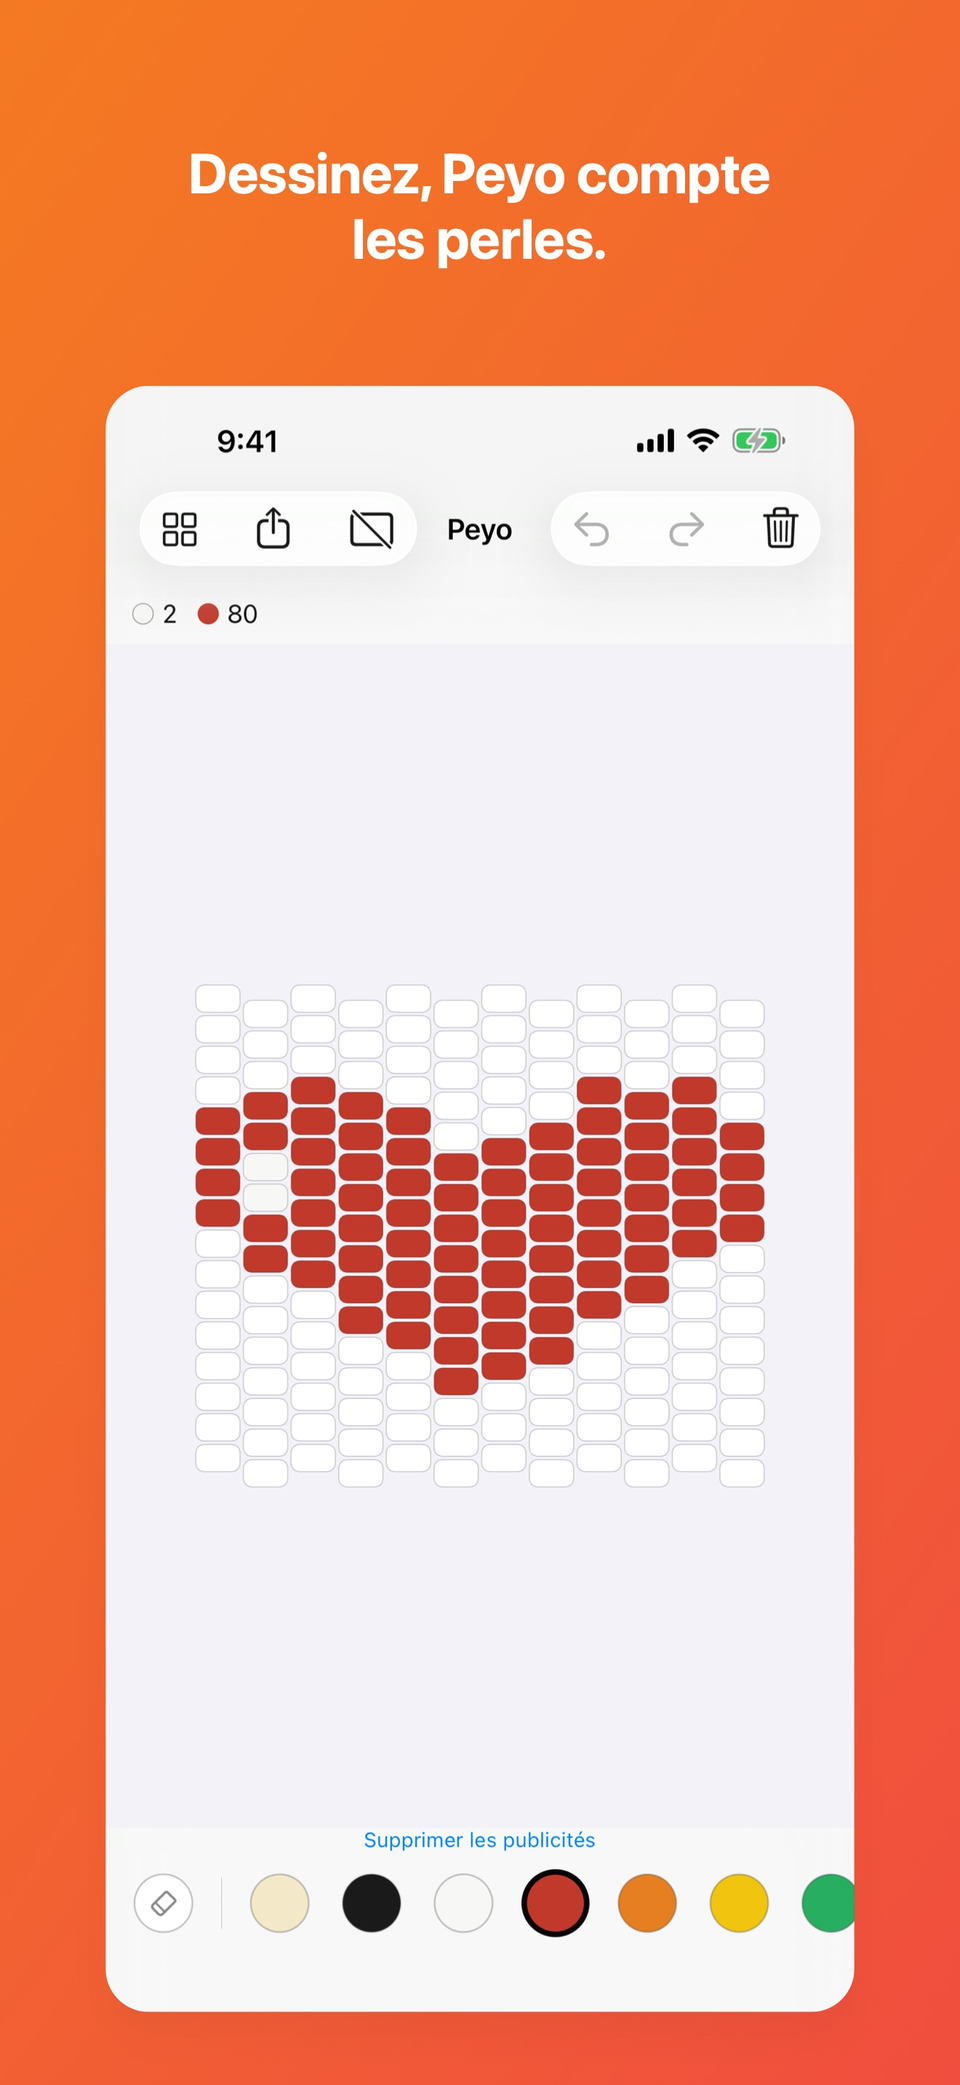
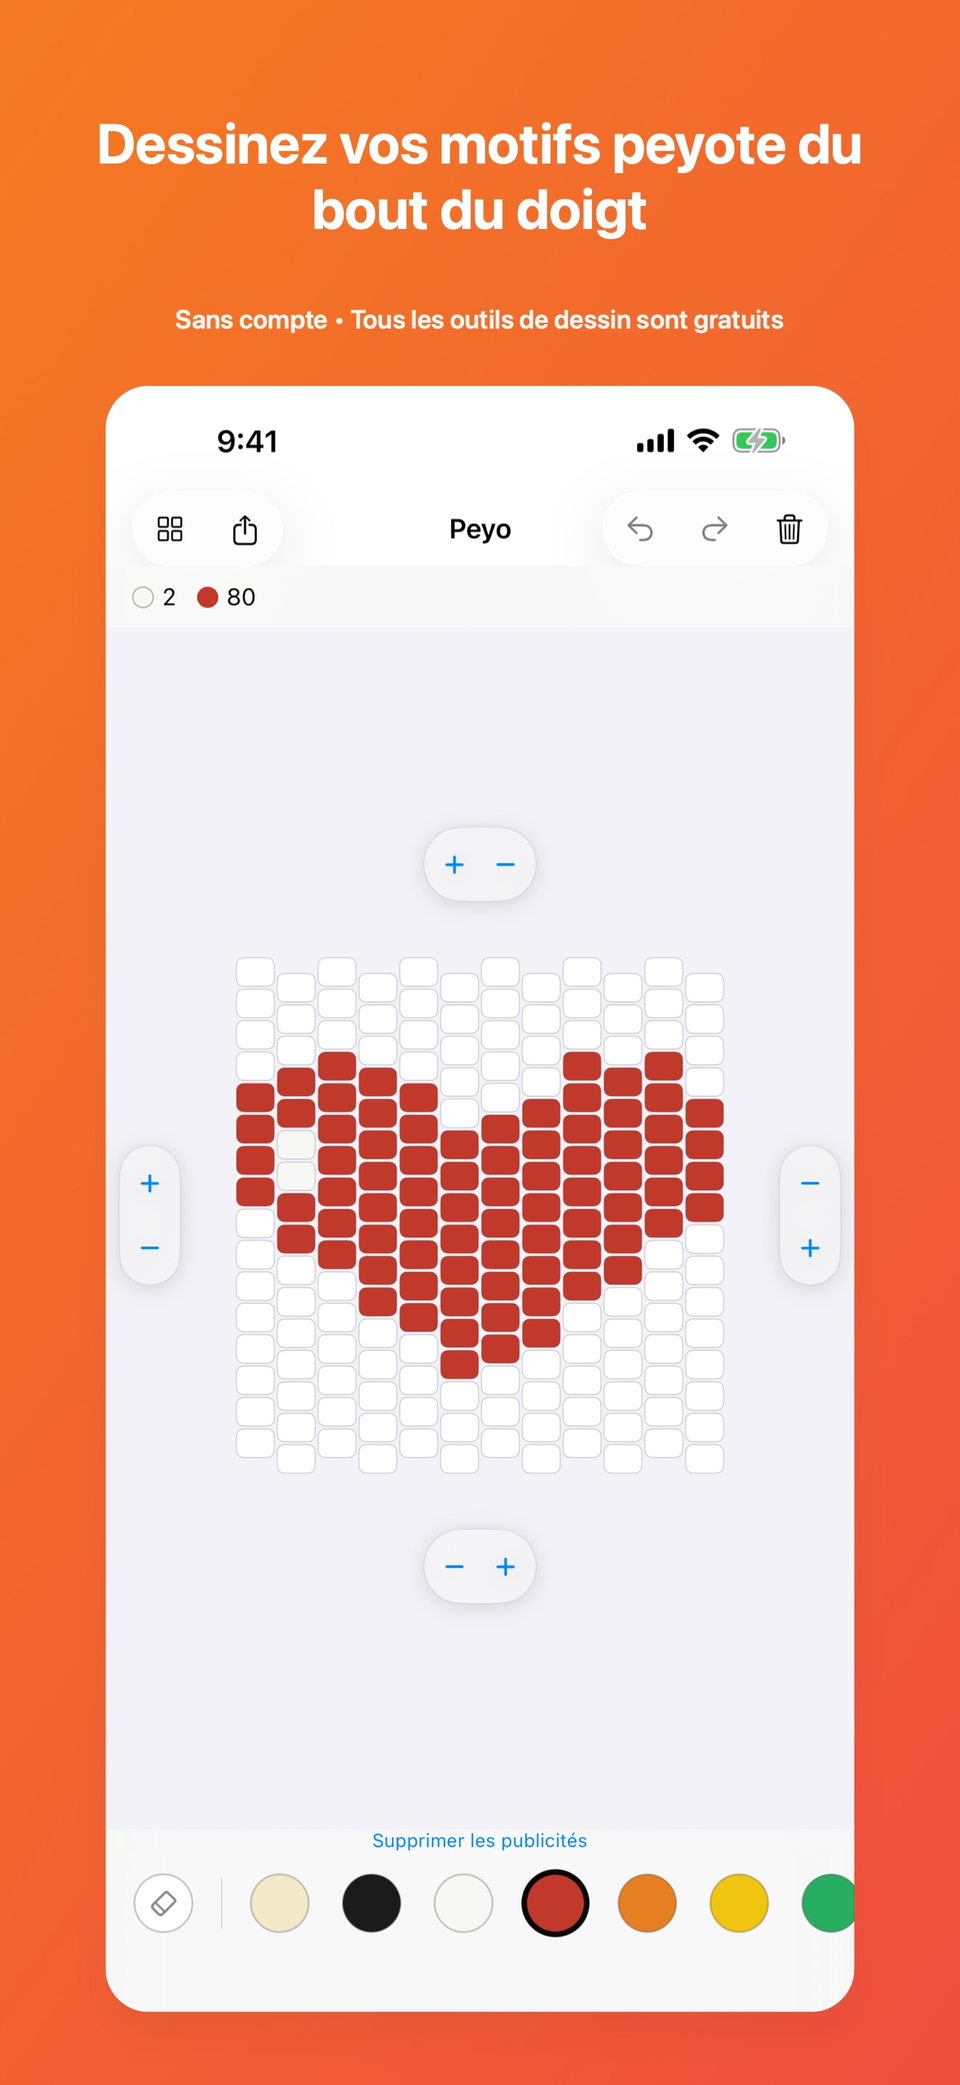
Update Peyo French landing page

diff --git a/css/peyo.css b/css/peyo.css
@@ -1,7 +1,7 @@
 .peyo-page { --peyo-ink:#101317; --peyo-paper:#fbf4ed; --peyo-coral:#f24f3c; --peyo-gold:#ffc94a; --peyo-blue:#6170ff; background:var(--peyo-paper); color:var(--peyo-ink); }
 .peyo-page .peyo-header { position:absolute; z-index:4; top:0; left:50%; width:min(1180px,calc(100% - 48px)); height:92px; transform:translateX(-50%); display:flex; align-items:center; justify-content:space-between; border-bottom:1px solid rgba(255,255,255,.18); color:#fff; }
 .peyo-brand { display:flex; align-items:center; gap:12px; }.peyo-brand img { width:44px; height:44px; border-radius:14px; }.peyo-brand span { display:flex; flex-direction:column; line-height:1.25; }.peyo-brand strong { font-size:18px; }.peyo-brand small { color:rgba(255,255,255,.6); font:700 9px/1.5 monospace; letter-spacing:.12em; }.peyo-header nav { display:flex; align-items:center; gap:28px; font-size:13px; font-weight:750; }.peyo-header nav a:hover,.peyo-text-link:hover { color:var(--peyo-gold); }.peyo-header__cta { padding:10px 14px; border:1px solid rgba(255,255,255,.42); border-radius:999px; }
-.peyo-locale-links { display:flex; align-items:center; gap:8px; margin-left:auto; padding-left:24px; font:800 10px/1 monospace; letter-spacing:.08em; }.peyo-locale-links a { color:rgba(255,255,255,.55); }.peyo-locale-links a:hover { color:var(--peyo-gold); }
+.peyo-locale-links { display:flex; align-items:center; gap:8px; margin-left:auto; padding-left:24px; font:800 10px/1 monospace; letter-spacing:.08em; }.peyo-locale-links a { color:rgba(255,255,255,.55); }.peyo-locale-links a:hover { color:var(--peyo-gold); }.peyo-locale-links a[aria-current="page"] { color:var(--peyo-ink); background:var(--peyo-gold); border-radius:999px; }
 .peyo-hero { position:relative; min-height:790px; overflow:hidden; display:grid; grid-template-columns:1fr .95fr; align-items:center; gap:30px; padding:150px max(36px,calc((100vw - 1180px)/2)) 90px; color:#fff; background:radial-gradient(circle at 78% 25%,rgba(97,112,255,.35),transparent 28%),radial-gradient(circle at 20% 90%,rgba(242,79,60,.22),transparent 25%),var(--peyo-ink); }.peyo-hero__copy { position:relative; z-index:2; max-width:670px; }.peyo-eyebrow,.peyo-kicker { margin:0 0 22px; font:800 11px/1.4 monospace; letter-spacing:.15em; }.peyo-eyebrow { display:flex; align-items:center; gap:10px; color:rgba(255,255,255,.75); }.peyo-eyebrow span { width:8px; height:8px; border-radius:50%; background:var(--peyo-gold); box-shadow:0 0 0 5px rgba(255,201,74,.16); }.peyo-hero h1 { margin:0; font-size:clamp(38px,5vw,67px); line-height:1.28; letter-spacing:-.04em; }.peyo-hero h1 em,.peyo-intro h2 em,.peyo-card-feature h2 em,.peyo-pricing h2 em,.peyo-final h2 em { color:var(--peyo-gold); font-style:normal; }.peyo-hero__lead { max-width:560px; margin:28px 0 34px; color:rgba(255,255,255,.78); font-size:16px; line-height:2.05; }.peyo-hero__actions { display:flex; align-items:center; gap:24px; }.peyo-button { display:inline-flex; align-items:center; justify-content:center; gap:16px; min-height:54px; padding:10px 22px; border-radius:4px; font-size:14px; font-weight:800; }.peyo-button--light { color:var(--peyo-ink); background:#fff; }.peyo-button--light:hover { background:var(--peyo-gold); }.peyo-button--dark { color:#fff; background:var(--peyo-ink); }.peyo-button--dark:hover { background:#2b3039; }.peyo-text-link { padding-bottom:4px; border-bottom:1px solid currentColor; font-size:13px; font-weight:750; }.peyo-hero__note { margin:20px 0 0; color:rgba(255,255,255,.53); font-size:12px; }
 .peyo-hero__visual { position:relative; min-height:530px; display:flex; align-items:center; justify-content:center; }.peyo-hero__screenshot { display:block; width:min(100%,320px); height:auto; object-fit:contain; border:1px solid rgba(255,255,255,.14); border-radius:12px; box-shadow:0 30px 80px rgba(0,0,0,.45); transform:rotate(1deg); }
 .peyo-intro { display:grid; grid-template-columns:1.15fr .85fr; gap:20px 80px; align-items:start; max-width:1180px; margin:0 auto; padding:112px 0; border-bottom:1px solid rgba(16,19,23,.13); }.peyo-intro .peyo-kicker { grid-area:1/1; color:#777b83; }.peyo-intro h2 { grid-area:2/1; margin:0; font-size:clamp(31px,4vw,49px); line-height:1.45; letter-spacing:-.04em; }.peyo-intro > p:last-child { grid-area:1/2/3/2; align-self:center; max-width:32em; margin:0; color:#666b74; font-size:15px; line-height:2.1; }.peyo-kicker { color:#70747c; }
@@ -11,7 +11,7 @@
 .peyo-pricing { display:grid; grid-template-columns:1.15fr .85fr; gap:85px; align-items:center; max-width:1180px; margin:0 auto; padding:112px 0; }.peyo-pricing > div:first-child > p:last-child { max-width:35em; margin:26px 0 0; color:#666b74; font-size:15px; line-height:2.05; }.peyo-price-card { padding:34px; border:1px solid rgba(16,19,23,.13); border-radius:8px; background:#fff; box-shadow:0 20px 45px rgba(16,19,23,.08); }.peyo-price-card__label { display:block; color:var(--peyo-coral); font:800 10px/1.4 monospace; letter-spacing:.14em; }.peyo-price-card strong { display:block; margin:16px 0 0; font-size:56px; letter-spacing:-.06em; }.peyo-price-card > p { margin:0; color:#7b7f87; font-size:12px; }.peyo-price-card ul { display:grid; gap:8px; margin:28px 0; padding:22px 0 22px 20px; border-top:1px solid rgba(16,19,23,.12); border-bottom:1px solid rgba(16,19,23,.12); color:#5e636d; font-size:13px; line-height:1.7; }.peyo-price-card .peyo-button { width:100%; }
 .peyo-final { padding:120px 24px; text-align:center; background:var(--peyo-gold); }.peyo-final .peyo-kicker { color:#766021; }.peyo-final p:not(.peyo-kicker) { max-width:34em; margin:24px auto 30px; color:#5e501f; font-size:15px; line-height:2; }.peyo-final .peyo-button { margin:auto; }.peyo-footer { display:flex; justify-content:space-between; gap:20px; padding:32px max(36px,calc((100vw - 1180px)/2)); color:rgba(255,255,255,.65); background:#0b0d10; font-size:12px; }.peyo-footer a:hover { color:var(--peyo-gold); }
 @media (max-width:900px) { .peyo-hero { grid-template-columns:1fr; text-align:center; }.peyo-hero__lead { margin-inline:auto; }.peyo-hero__actions { justify-content:center; }.peyo-hero__visual { width:min(100%,560px); margin:20px auto 0; }.peyo-intro { grid-template-columns:1fr; margin-inline:28px; gap:22px; }.peyo-intro .peyo-kicker,.peyo-intro h2,.peyo-intro > p:last-child { grid-area:auto; }.peyo-screens { margin-inline:28px; }.peyo-how { margin-inline:28px; }.peyo-steps { grid-template-columns:1fr; }.peyo-step { min-height:auto; }.peyo-card-feature { grid-template-columns:1fr; gap:45px; }.peyo-card-feature__copy { max-width:620px; margin:auto; }.peyo-pricing { grid-template-columns:1fr; margin-inline:28px; gap:45px; }.peyo-footer { flex-direction:column; align-items:center; text-align:center; } }
-@media (max-width:600px) { .peyo-page .peyo-header { width:calc(100% - 32px); height:76px; }.peyo-brand img { width:38px; height:38px; border-radius:12px; }.peyo-brand strong { font-size:15px; }.peyo-brand small { display:none; }.peyo-header nav { gap:12px; font-size:11px; }.peyo-header nav a:not(.peyo-header__cta) { display:none; }.peyo-locale-links { gap:5px; padding-left:10px; font-size:9px; }.peyo-hero { min-height:auto; padding:118px 22px 60px; }.peyo-hero h1 { font-size:clamp(31px,8.6vw,43px); }.peyo-hero__lead { font-size:15px; }.peyo-hero__actions { flex-direction:column; gap:20px; }.peyo-hero__visual { min-height:410px; }.peyo-hero__screenshot { width:min(100%,250px); }.peyo-intro,.peyo-screens,.peyo-how,.peyo-pricing { padding:82px 0; }.peyo-screens { margin-inline:22px; }.peyo-screen-gallery { grid-template-columns:1fr; justify-items:center; gap:22px; }.peyo-screen-gallery figure { width:min(100%,250px); }.peyo-section-heading { display:block; }.peyo-section-heading h2 { margin-top:6px; }.peyo-step { padding:25px; }.peyo-card-feature { padding:85px 22px; }.peyo-card-feature__visual { min-height:390px; }.peyo-project-card { width:255px; min-height:350px; padding:23px; }.peyo-project-card h3 { font-size:28px; }.peyo-pricing { margin-inline:22px; }.peyo-price-card { padding:27px; }.peyo-price-card strong { font-size:48px; }.peyo-final { padding:85px 22px; }.peyo-footer { padding:28px 22px; } }
+@media (max-width:600px) { .peyo-page .peyo-header { width:calc(100% - 32px); height:126px; align-items:flex-start; padding-top:14px; }.peyo-brand img { width:38px; height:38px; border-radius:12px; }.peyo-brand strong { font-size:15px; }.peyo-brand small { display:none; }.peyo-header nav { gap:12px; font-size:11px; }.peyo-header nav a:not(.peyo-header__cta) { display:none; }.peyo-locale-links { position:absolute; right:0; bottom:0; gap:0; margin:0; padding:0; font-size:10px; }.peyo-locale-links a { display:grid; width:44px; height:44px; place-items:center; border-radius:999px; }.peyo-hero { min-height:auto; padding:154px 22px 60px; }.peyo-hero h1 { font-size:clamp(31px,8.6vw,43px); }.peyo-hero__lead { font-size:15px; }.peyo-hero__actions { flex-direction:column; gap:20px; }.peyo-hero__visual { min-height:410px; }.peyo-hero__screenshot { width:min(100%,250px); }.peyo-intro,.peyo-screens,.peyo-how,.peyo-pricing { padding:82px 0; }.peyo-screens { margin-inline:22px; }.peyo-screen-gallery { grid-template-columns:1fr; justify-items:center; gap:22px; }.peyo-screen-gallery figure { width:min(100%,250px); }.peyo-section-heading { display:block; }.peyo-section-heading h2 { margin-top:6px; }.peyo-step { padding:25px; }.peyo-card-feature { padding:85px 22px; }.peyo-card-feature__visual { min-height:390px; }.peyo-project-card { width:255px; min-height:350px; padding:23px; }.peyo-project-card h3 { font-size:28px; }.peyo-pricing { margin-inline:22px; }.peyo-price-card { padding:27px; }.peyo-price-card strong { font-size:48px; }.peyo-final { padding:85px 22px; }.peyo-footer { padding:28px 22px; } }
 @media (prefers-reduced-motion:reduce) { .peyo-page * { scroll-behavior:auto; } }
 
 /* Keep the accent bright on dark surfaces, but readable on paper and gold surfaces. */

diff --git a/scripts/build-deploy-now.py b/scripts/build-deploy-now.py
@@ -229,47 +229,47 @@ LOCALIZED_PAGES = {
             "Peyoの先頭へ": "Retour en haut",
             "言語": "Langues",
             "ペヨーテステッチのビーズ図案を指で描き、色ごとのビーズ数を自動で数えられるiPhoneアプリです。": "Peyo est une app pour iPhone et iPad qui permet de dessiner des motifs de perles peyote et de les compter par couleur.",
-            "ペヨーテ図案を、<br><em>描く。数える。共有する。</em>": "Des motifs peyote,<br><em>dessiner. compter. partager.</em>",
-            "紙に線を引いて、ビーズを数え直す時間を、もっと作品を考える時間に。Peyoは、ペヨーテステッチのための半目ずれキャンバスです。": "Passez moins de temps à redessiner sur papier et à recompter les perles, et plus de temps à créer. Peyo est une grille décalée conçue pour le peyote stitch.",
-            "無料でApp Storeから始める": "Commencer gratuitement sur l’App Store",
+            "ペヨーテ図案を、<br><em>描く。数える。共有する。</em>": "Dessinez vos motifs peyote.<br><em>Comptez les perles par couleur.<br>Enregistrez et partagez.</em>",
+            "紙に線を引いて、ビーズを数え直す時間を、もっと作品を考える時間に。Peyoは、ペヨーテステッチのための半目ずれキャンバスです。": "Dessinez au lieu de redessiner sur papier. Peyo est une grille décalée pour le point peyote : il compte les perles par couleur et les réunit dans une carte de projet à enregistrer ou à partager.",
+            "無料でApp Storeから始める": "Télécharger gratuitement sur l’App Store",
             "3ステップで見る": "Voir comment ça marche",
-            "iPhone・iPad対応 / 登録不要 / 作図機能は無料": "Pour iPhone et iPad / Sans inscription / Création gratuite",
+            "iPhone・iPad対応 / 登録不要 / 作図機能は無料": "Pour iPhone et iPad / Sans inscription / Tous les outils de dessin sont gratuits",
             "Peyoの実際の作図画面。ハートのペヨーテ図案と色ごとのビーズ数が表示されている": "L’écran réel de Peyo avec un motif cœur et le compte des perles par couleur",
             "思いついた模様を、<br><em>すぐに試せる。</em>": "Essayez une idée<br><em>dès qu’elle arrive.</em>",
-            "ペヨーテステッチの実際の並びに合わせたキャンバスだから、紙の方眼紙を探すところから始めなくていい。指で描いて、数を見て、また直せます。": "La grille respecte la disposition décalée du peyote stitch. Dessinez, vérifiez le compte et ajustez au fil de l’idée.",
-            "Peyoの中身を、<br><em>そのまま見る。</em>": "Découvrez Peyo<br><em>tel qu’il est.</em>",
+            "ペヨーテステッチの実際の並びに合わせたキャンバスだから、紙の方眼紙を探すところから始めなくていい。指で描いて、数を見て、また直せます。": "La grille suit la disposition décalée du point peyote. Dessinez, comptez les perles par couleur et ajustez au fil de l’idée.",
+            "Peyoの中身を、<br><em>そのまま見る。</em>": "Découvrez Peyo,<br><em>du dessin au partage.</em>",
             "Peyoの作図画面": "Écran de création Peyo",
-            "Peyoの作品を書き出す画面": "Écran d’export Peyo",
-            "Peyoの作品ギャラリー画面": "Galerie Peyo",
+            "Peyoの作品を書き出す画面": "Écran du décompte des perles par couleur",
+            "Peyoの作品ギャラリー画面": "Écran de la carte de projet à enregistrer et partager",
             "描く": "Dessiner",
-            "書き出す": "Exporter",
-            "残す": "Conserver",
+            "書き出す": "Compter par couleur",
+            "残す": "Enregistrer et partager",
             "作品になるまで、<br>3つだけ。": "De l’idée au motif,<br>trois étapes suffisent.",
             "指で描く": "Dessiner au doigt",
-            "ペヨーテステッチ専用の半目ずれキャンバスに、思いついた模様をそのまま描きます。": "Dessinez votre idée directement sur une grille décalée conçue pour le peyote stitch.",
-            "数を確認する": "Vérifier le compte",
-            "使ったビーズを色ごとに自動集計。材料を準備するときの数え直しを減らせます。": "Peyo compte automatiquement les perles par couleur pour simplifier la préparation du matériel.",
-            "作品カードにする": "Créer une fiche projet",
-            "作品名、図案、ビーズ数、使用色を1枚にまとめて、保存・共有できます。": "Enregistrez et partagez le nom, le motif, le compte et les couleurs sur une seule fiche.",
-            "図案だけで終わらせない。<br><em>作品カードに残す。</em>": "Ne vous arrêtez pas au motif.<br><em>Gardez-le comme fiche projet.</em>",
-            "作品名をつけて、図案とビーズ数を1枚に。自分用の記録にも、友だちに見せるときにも、そのまま使えます。": "Donnez un nom à votre création et gardez le motif et le compte ensemble, pour vous ou pour le partager.",
+            "ペヨーテステッチ専用の半目ずれキャンバスに、思いついた模様をそのまま描きます。": "Dessinez votre idée directement sur une grille décalée pensée pour le point peyote.",
+            "数を確認する": "Compter par couleur",
+            "使ったビーズを色ごとに自動集計。材料を準備するときの数え直しを減らせます。": "Peyo indique le nombre exact de perles pour chaque couleur, afin de préparer vos matériaux sans recompter.",
+            "作品カードにする": "Créer une carte de projet",
+            "作品名、図案、ビーズ数、使用色を1枚にまとめて、保存・共有できます。": "Enregistrez le nom, le motif, le compte et les couleurs dans une carte de projet, prête à partager.",
+            "図案だけで終わらせない。<br><em>作品カードに残す。</em>": "Ne vous arrêtez pas au motif.<br><em>Enregistrez et partagez votre carte de projet.</em>",
+            "作品名をつけて、図案とビーズ数を1枚に。自分用の記録にも、友だちに見せるときにも、そのまま使えます。": "Donnez un nom à votre création et gardez le motif, le compte et les couleurs dans une carte de projet, pour vous ou pour la partager.",
             "Peyoを無料で試す": "Essayer Peyo gratuitement",
-            "作図は無料。<br><em>広告非表示は一度だけ。</em>": "Créez gratuitement.<br><em>Supprimez les pubs une seule fois.</em>",
-            "すべての作図機能を無料で使えます。気に入って使い続けるときだけ、500円の買い切りでバナー広告を非表示にできます。": "Toutes les fonctions de création sont gratuites. Un achat unique supprime définitivement les publicités.",
+            "作図は無料。<br><em>広告非表示は一度だけ。</em>": "Dessinez gratuitement.<br><em>Supprimez les pubs une seule fois.</em>",
+            "すべての作図機能を無料で使えます。気に入って使い続けるときだけ、500円の買い切りでバナー広告を非表示にできます。": "Toutes les fonctionnalités de dessin sont gratuites. Un achat unique supprime définitivement les publicités.",
             "買い切り / 自動更新なし": "Achat unique / Sans abonnement",
-            "作図・保存・共有は無料": "Créer, enregistrer et partager gratuitement",
+            "作図・保存・共有は無料": "Dessiner, enregistrer et partager gratuitement",
             "購入後は広告なし": "Aucune pub après l’achat",
             "再インストール後も復元可能": "Récupérable après réinstallation",
             "App Storeで見る": "Voir sur l’App Store",
             "次に作りたいものを、<br><em>今日のうちに描いてみる。</em>": "Votre prochain projet<br><em>peut commencer aujourd’hui.</em>",
-            "登録不要。図案は端末内に保存。まずは無料で、最初の1模様から。": "Sans inscription. Vos motifs restent sur votre appareil. Commencez gratuitement avec votre premier motif.",
+            "登録不要。図案は端末内に保存。まずは無料で、最初の1模様から。": "Sans inscription. Vos motifs restent sur votre appareil. Dessinez gratuitement votre premier motif.",
             "App Storeからダウンロード": "Télécharger sur l’App Store",
             "サポート・プライバシー": "Assistance et confidentialité",
             "80 beads": "80 perles",
             "2 colors": "2 couleurs",
-            "Peyoは、ペヨーテステッチのビーズ図案を指で描き、色ごとのビーズ数を自動で数えられるiPhoneアプリです。作図は無料、広告非表示は500円の買い切りです。": "Peyo est une app pour iPhone et iPad qui permet de dessiner des motifs de perles peyote et de les compter par couleur. La création est gratuite ; un achat unique supprime les publicités.",
-            "Peyo — ペヨーテ図案を、描く。数える。共有する。": "Peyo — Dessiner. Compter. Partager.",
-            "ペヨーテステッチの図案を指で描いて、ビーズ数を自動集計。作品カードにして保存・共有できます。": "Dessinez des motifs peyote au doigt, comptez les perles par couleur et enregistrez ou partagez vos créations sous forme de fiches projet.",
+            "Peyoは、ペヨーテステッチのビーズ図案を指で描き、色ごとのビーズ数を自動で数えられるiPhoneアプリです。作図は無料、広告非表示は500円の買い切りです。": "Peyo est une app pour iPhone et iPad qui permet de dessiner des motifs de perles pour le point peyote et de les compter par couleur. Tous les outils de dessin sont gratuits ; un achat unique supprime les publicités.",
+            "Peyo — ペヨーテ図案を、描く。数える。共有する。": "Peyo — Dessinez. Comptez. Enregistrez et partagez.",
+            "ペヨーテステッチの図案を指で描いて、ビーズ数を自動集計。作品カードにして保存・共有できます。": "Dessinez des motifs peyote au doigt, comptez les perles par couleur et enregistrez ou partagez vos créations dans une carte de projet.",
         },
     },
     "it": {
@@ -409,6 +409,14 @@ def render_localized_page(source: str, locale: str, page: dict) -> str:
     html = html.replace(f'content="{SITE}/peyo/"', f'content="{SITE}/peyo/{locale}/"', 1)
     for original, translated in sorted(page["replacements"].items(), key=lambda item: len(item[0]), reverse=True):
         html = html.replace(original, translated)
+    active_locale = f'<a href="/peyo/{locale}/" lang="{page["lang"]}">{locale.upper()}</a>'
+    html = html.replace(
+        active_locale,
+        f'<a href="/peyo/{locale}/" lang="{page["lang"]}" aria-current="page">{locale.upper()}</a>',
+    )
+    if locale == "fr":
+        html = html.replace("/assets/peyo-fr-export.jpg", "/assets/peyo-fr-project-card.jpg")
+        html = html.replace("/assets/peyo-fr-gallery.jpg", "/assets/peyo-fr-share.jpg")
     return html
 
 
